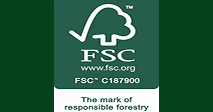
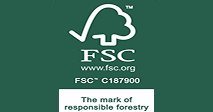
update

diff --git a/index.css b/index.css
@@ -3,8 +3,8 @@
   padding: 0;
   box-sizing: border-box;
 }
-body{
-  font-family:Microsoft JhengHei; 
+body {
+  font-family: Microsoft JhengHei;
   /* font-family:DFKai-sb; 標楷體 */
 }
 .banner .box {
@@ -18,23 +18,23 @@ body{
   justify-content: center;
   align-items: center;
 }
-@media (max-width:768px){
-  .banner .box{
-    width:100%;
+@media (max-width: 768px) {
+  .banner .box {
+    width: 100%;
     height: 300px;
   }
 }
 
-.navbar{
+.navbar {
   padding: 0rem;
 }
 
-.nav-link{
+.nav-link {
   color: #569a2b;
 }
-header h5{
-  color: #265D4B;
-  font-weight:bolder;
+header h5 {
+  color: #265d4b;
+  font-weight: bolder;
 }
 
 /* 台灣林業說明part1 */
@@ -47,11 +47,11 @@ header h5{
 
 .part1text {
   width: 800px;
-  line-height: 40px
+  line-height: 40px;
 }
 .part1 h2 {
   text-align: center;
-  color: #265D4B;
+  color: #265d4b;
   font-weight: 800;
 }
 .part1 p {
@@ -60,7 +60,7 @@ header h5{
 
 /* 國產木材介紹part2 */
 .part2 {
-  background-color: #8FC96B;
+  background-color: #8fc96b;
   padding: 50px;
   display: flex;
   justify-content: center;
@@ -75,16 +75,16 @@ header h5{
 .part2 h2 {
   width: fit-content; /* 讓寬度隨文字長度 */
   margin: 0 auto; /* 置中 */
-  background-color: #265D4B;
+  background-color: #265d4b;
   color: #fff;
   border-radius: 50px;
   padding: 0.3em 1em;
 }
 
-.card-title{
-  font-weight:bolder
+.card-title {
+  color: rgba(33, 37, 41, 0.75);
+  font-weight: bolder;
 }
-
 
 .allcard .card {
   height: 350px;
@@ -94,80 +94,96 @@ header h5{
 }
 
 /* FSC影片介紹*/
-.part3{
-  padding:50px;
+.part3 {
+  padding: 50px;
 }
 
-.FSC{
-  color:#569a2b;
+.FSC {
+  color: #569a2b;
 }
-a{
+a {
   text-decoration: none;
 }
-.card-img{
-  width:100%;
-  height:100%;
-  object-fit:cover;
+.card-img {
+  width: 100%;
+  height: 100%;
+  object-fit: cover;
 }
 
-.fw-bold{
-  color: #265D4B;
+.fw-bold {
+  color: #265d4b;
 }
 
-.videotext{
+.text-muted {
+  font-size: large;
+  font-weight: bolder;
+}
+
+.videotext {
   width: 80%;
   margin: 0 auto;
 }
 
-.video-box{
-  width:80%;
+.video-box {
+  width: 80%;
 }
 
-@media (max-width:768px){
-  .video-box{
-    width:100%;
+@media (max-width: 768px) {
+  .videotext {
+    width: 100%;
+    margin: 0 auto;
   }
+
+  .video-box {
+    width: 100%;
+  }
+  .card-img{
+    width: 100%;
+    height: 100%;
+    object-fit:contain;
+  }
+
 }
 
 /* 綠色消費者的角色 */
-.part4{
+.part4 {
   background-color: #569a2b;
   background-image: url(image/BG.png);
   padding: 50px;
 }
 
-.allcard-2{
- width: 80%; 
- margin: 50px auto;
+.allcard-2 {
+  width: 80%;
+  margin: 50px auto;
 }
-@media (max-width:768px){
-  .allcard-2{
-    width:100%;
+@media (max-width: 768px) {
+  .allcard-2 {
+    width: 100%;
   }
 }
 
 .part4 h2 {
   width: fit-content; /* 讓寬度隨文字長度 */
   margin: 0 auto; /* 置中 */
-  background-color: #97B982;
+  background-color: #97b982;
   color: #fff;
   border-radius: 50px;
   padding: 0.3em 1em;
 }
 /* 聯繫我們 */
-
-
-
-
+.btn-success{
+  --bs-btn-bg: #8FC96B;
+  --bs-btn-border-color:#8FC96B;
+}
 /* 頁首 */
-.bg{
+.bg {
   width: 100%;
-  background-color: #265D4B;
+  background-color: #265d4b;
   height: 100px;
   display: flex;
   justify-content: center;
   align-items: center;
 }
-.text{
-  color:#fff;
+.text {
+  color: #fff;
 }

diff --git a/html.html b/html.html
@@ -153,12 +153,28 @@
             <div class="col-12 col-md-7">
               <div class="card shadow-sm" style="max-width: auto">
                 <div class="row g-0">
-                  <div class="col-4 p-0">
+                  <!-- <div class="col-4 p-0">
                     <img
                       src="image/FSC.png"
                       class="card-img img-fluid rounded-start"
                       alt=""
                     />
+                  </div> -->
+                  <div class="col-4 p-0">
+                    <picture>
+                      <!-- 手機 -->
+                      <source
+                        srcset="image/FSC2.png"
+                        media="(max-width: 768px)"
+                      />
+
+                      <!-- 電腦 -->
+                      <img
+                        src="image/FSC.png"
+                        class="card-img img-fluid rounded-start"
+                        alt=""
+                      />
+                    </picture>
                   </div>
                   <div class="col-8">
                     <div class="card-body">
